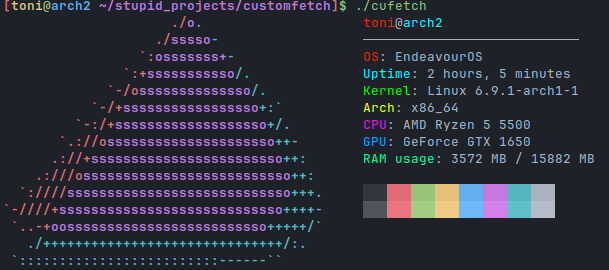
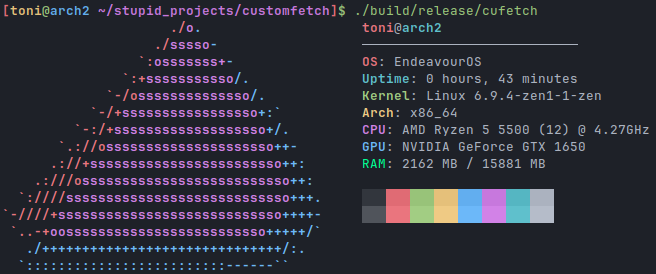
misc: update README.md

Changed region(s): [[0.0, 0.0, 0.9984, 1.0]]

diff --git a/README.md b/README.md
@@ -6,63 +6,88 @@ A system information fetch tool (or [neofetch](https://github.com/dylanaraps/neo
 Currently supports Linux distros only, but our current goal is to be cross-platform, which will happen soon (windows support incoming)
 
 ## Key Features
+
 * **GUI support (for GTK3)**
 * Really customizable and fast, check [Config (with explanation)](#config-with-explanation-) section
 * Lightweight
 
-## Config (with explanation) <a name="Config"></a>
+## Config (with explanation)
+
 Here's an example using the default config
 
 ![image](screenshot.png)
 
 The config:
+
 ```toml
 [config]
+# includes directive, include the top name of each module you use.
+# e.g. if you want to use $<os.name>, then `includes = ["os"]`.
+# you can also put specific includes, for example if you only want os.name, then `includes = ["os.name"]`
+includes = ["os", "cpu", "gpu", "ram"]
+
 layout = [
-    "${red}$<user.name>${0}@${cyan}$<os.hostname>",
+    "${red}$<os.username>${0}@${cyan}$<os.hostname>",
     "───────────────────────────",
     "${red}OS${0}: $<os.name>",
     "${cyan}Uptime${0}: $<os.uptime_hours> hours, $<os.uptime_mins> minutes",
     "${green}Kernel${0}: $<os.kernel_name> $<os.kernel_version>",
     "${yellow}Arch${0}: $<os.arch>",
-    "${magenta}CPU${0}: $<cpu.name>",
+    "${magenta}CPU${0}: $<cpu.name> ($<cpu.nproc>) @ $<cpu.freq_max>GHz",
     "${blue}GPU${0}: $<gpu.name>",
     "${#03ff93}RAM usage${0}: $<ram.used> MB / $<ram.total> MB",
     "",
-    "${\e[40m}   ${\e[41m}   ${\e[42m}   ${\e[43m}   ${\e[44m}   ${\e[45m}   ${\e[46m}   ${\e[47m}   ",
-    "${\e[100m}   ${\e[101m}   ${\e[102m}   ${\e[103m}   ${\e[104m}   ${\e[105m}   ${\e[106m}   ${\e[107m}   "
+    "${\e[40m}   ${\e[41m}   ${\e[42m}   ${\e[43m}   ${\e[44m}   ${\e[45m}   ${\e[46m}   ${\e[47m}   ", # normal colors
+    "${\e[100m}   ${\e[101m}   ${\e[102m}   ${\e[103m}   ${\e[104m}   ${\e[105m}   ${\e[106m}   ${\e[107m}   " # light colors
 ]
 
-# Colors can be with: hexcodes (#55ff88) OR bash escape code colors like "\e[1;34m"
+# display ascii-art or image/gif (GUI only) near layout
+# put "os" for displaying the OS ascii-art
+# or the "/path/to/file" for displaying custom files
+# or "off" for disabling ascii-art or image displaying
+source-path = "os"
+
+# offset between the ascii art and the system infos
+offset = 5
+
+# Colors can be with: hexcodes (#55ff88) and for bold put '!' (!#55ff88)
+# OR ANSI escape code colors like "\e[1;34m"
 # remember to add ${0} where you want to reset color
-red = "#ff2000"
-green = "#00ff00"
-blue = "#00aaff"
-cyan = "#00ffff"
-yellow = "#ffff00"
-magenta = "#ff11cc"
+black = "\e[1;90m"
+red = "\e[1;91m"
+green = "\e[1;92m"
+yellow = "\e[1;93m"
+blue = "\e[1;94m"
+magenta = "\e[1;95m"
+cyan = "\e[1;96m"
+white = "\e[1;97m"
+
+# GUI options
+# note: customfetch needs to be compiled with GUI_SUPPORT=1 (check with "cufetch --version")
+[gui]
+enable = false
+
+# Font to be used
+# syntax must be [FAMILY-LIST] [STYLE-OPTIONS] [SIZE]
+# e.g "Liberation Mono Normal 12"
+# check https://lazka.github.io/pgi-docs/Pango-1.0/classes/FontDescription.html#Pango.FontDescription for more infos
+font = "Liberation Mono Normal 12"
+
+# These are the colors palette you can use in the GUI mode.
+# They can overwritte with ANSI escape code colors
+# but they don't work with those, only hexcodes
+black = "!#000005"
+red = "!#ff2000"
+green = "!#00ff00"
+blue = "!#00aaff"
+cyan = "!#00ffff"
+yellow = "!#ffff00"
+magenta = "!#f881ff"
+white = "!#ffffff"
 ```
 
-The ascii art `file.txt`:
-```
-${\e[1;31m}                     ./${\e[1;35m}o${\e[1;34m}.
-${\e[1;31m}                   ./${\e[1;35m}sssso${\e[1;34m}-
-${\e[1;31m}                 `:${\e[1;35m}osssssss+${\e[1;34m}-
-${\e[1;31m}               `:+${\e[1;35m}sssssssssso${\e[1;34m}/.
-${\e[1;31m}             `-/o${\e[1;35m}ssssssssssssso${\e[1;34m}/.
-${\e[1;31m}           `-/+${\e[1;35m}sssssssssssssssso${\e[1;34m}+:`
-${\e[1;31m}         `-:/+${\e[1;35m}sssssssssssssssssso${\e[1;34m}+/.
-${\e[1;31m}       `.://o${\e[1;35m}sssssssssssssssssssso${\e[1;34m}++-
-${\e[1;31m}      .://+${\e[1;35m}ssssssssssssssssssssssso${\e[1;34m}++:
-${\e[1;31m}    .:///o${\e[1;35m}ssssssssssssssssssssssssso${\e[1;34m}++:
-${\e[1;31m}  `:////${\e[1;35m}ssssssssssssssssssssssssssso${\e[1;34m}+++.
-${\e[1;31m}`-////+${\e[1;35m}ssssssssssssssssssssssssssso${\e[1;34m}++++-
-${\e[1;31m} `..-+${\e[1;35m}oosssssssssssssssssssssssso${\e[1;34m}+++++/`
-${\e[1;34m}   ./++++++++++++++++++++++++++++++/:.
-${\e[1;34m} `:::::::::::::::::::::::::------``
-```
 You may be confused and have difficulty to understand, but this is why customfetch is different from the others.\
-We use our own parser for displaying the system informations or anything else, and so we use the variable `layout` along side the file.txt, which contains the ascii art.
+We use our own parser for displaying the system informations or anything else, and so we use the variable `layout` along side the OS ascii art text file.
 
 We use something we call "modules" and they starts with a '$'. **We use them on both the ascii art text file and the `layout` variable**\
 There are 3 modules:
@@ -81,6 +106,8 @@ There are 3 modules:
   you can even use pipes:\
   e.g $(echo \"hello world\" | cut -d' ' -f2) will only print world
 
-Any end brackets (')', '}', '>') can be escaped with \.
+Any end brackets (')', '}', '>') can be escaped with \\
 
-Hope that explained it well
+
+
+# 
